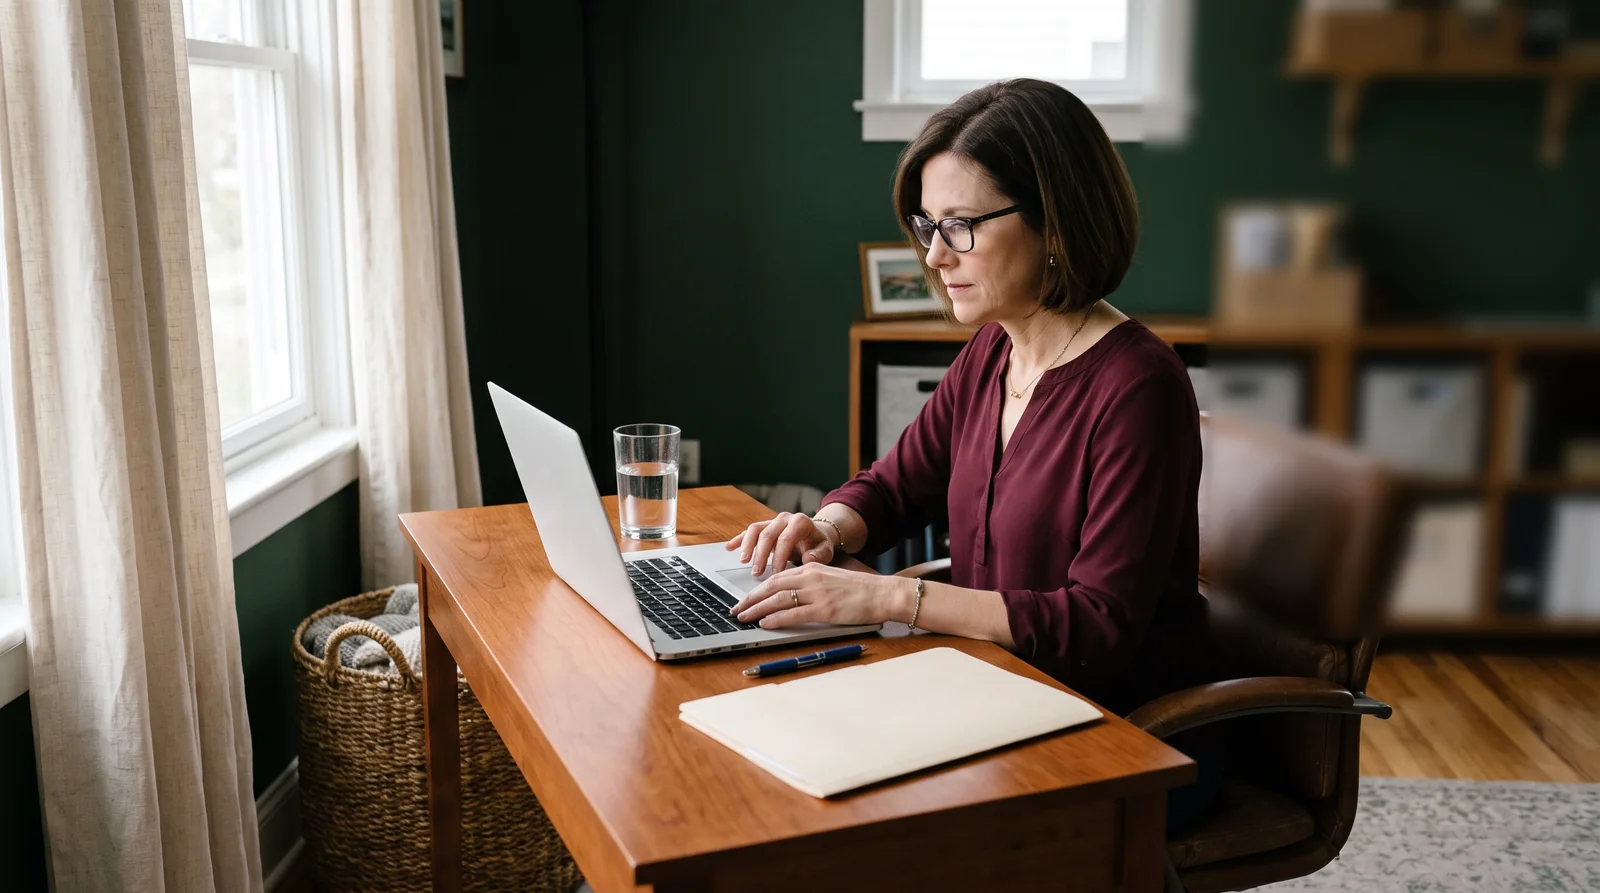
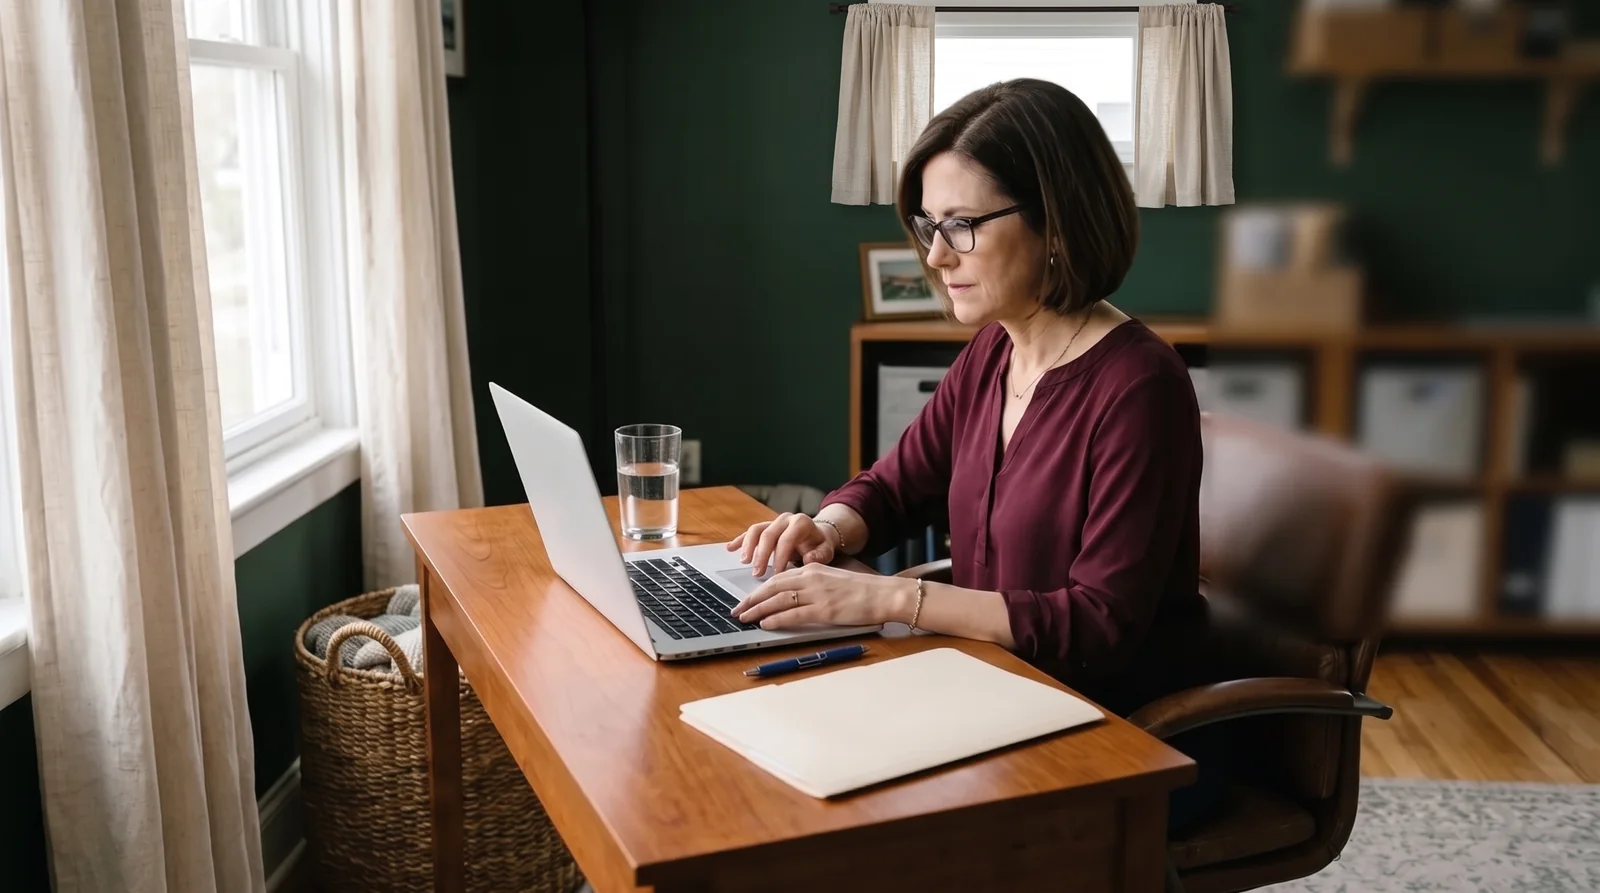
photos: 4th-quarter-estimated-taxes-due-2026 recheck fixes

diff --git a/blog-pipeline/photos-completed/4th-quarter-estimated-taxes-due-2026.md b/blog-pipeline/photos-completed/4th-quarter-estimated-taxes-due-2026.md
@@ -36,3 +36,6 @@ note: "Deep green home office with linen curtains, brunette with a bob and glass
 - image_url: https://scan.ismyhometoxic.com/blog-images/4thquartere-freedom-v1.webp
 - placement: final image before the closing CTA
 - completed: 2026-11-19T14:58:00
+
+## Recheck (Photo Claude) 2026-11-20
+Recheck: Curtains added to every window including the high window.
